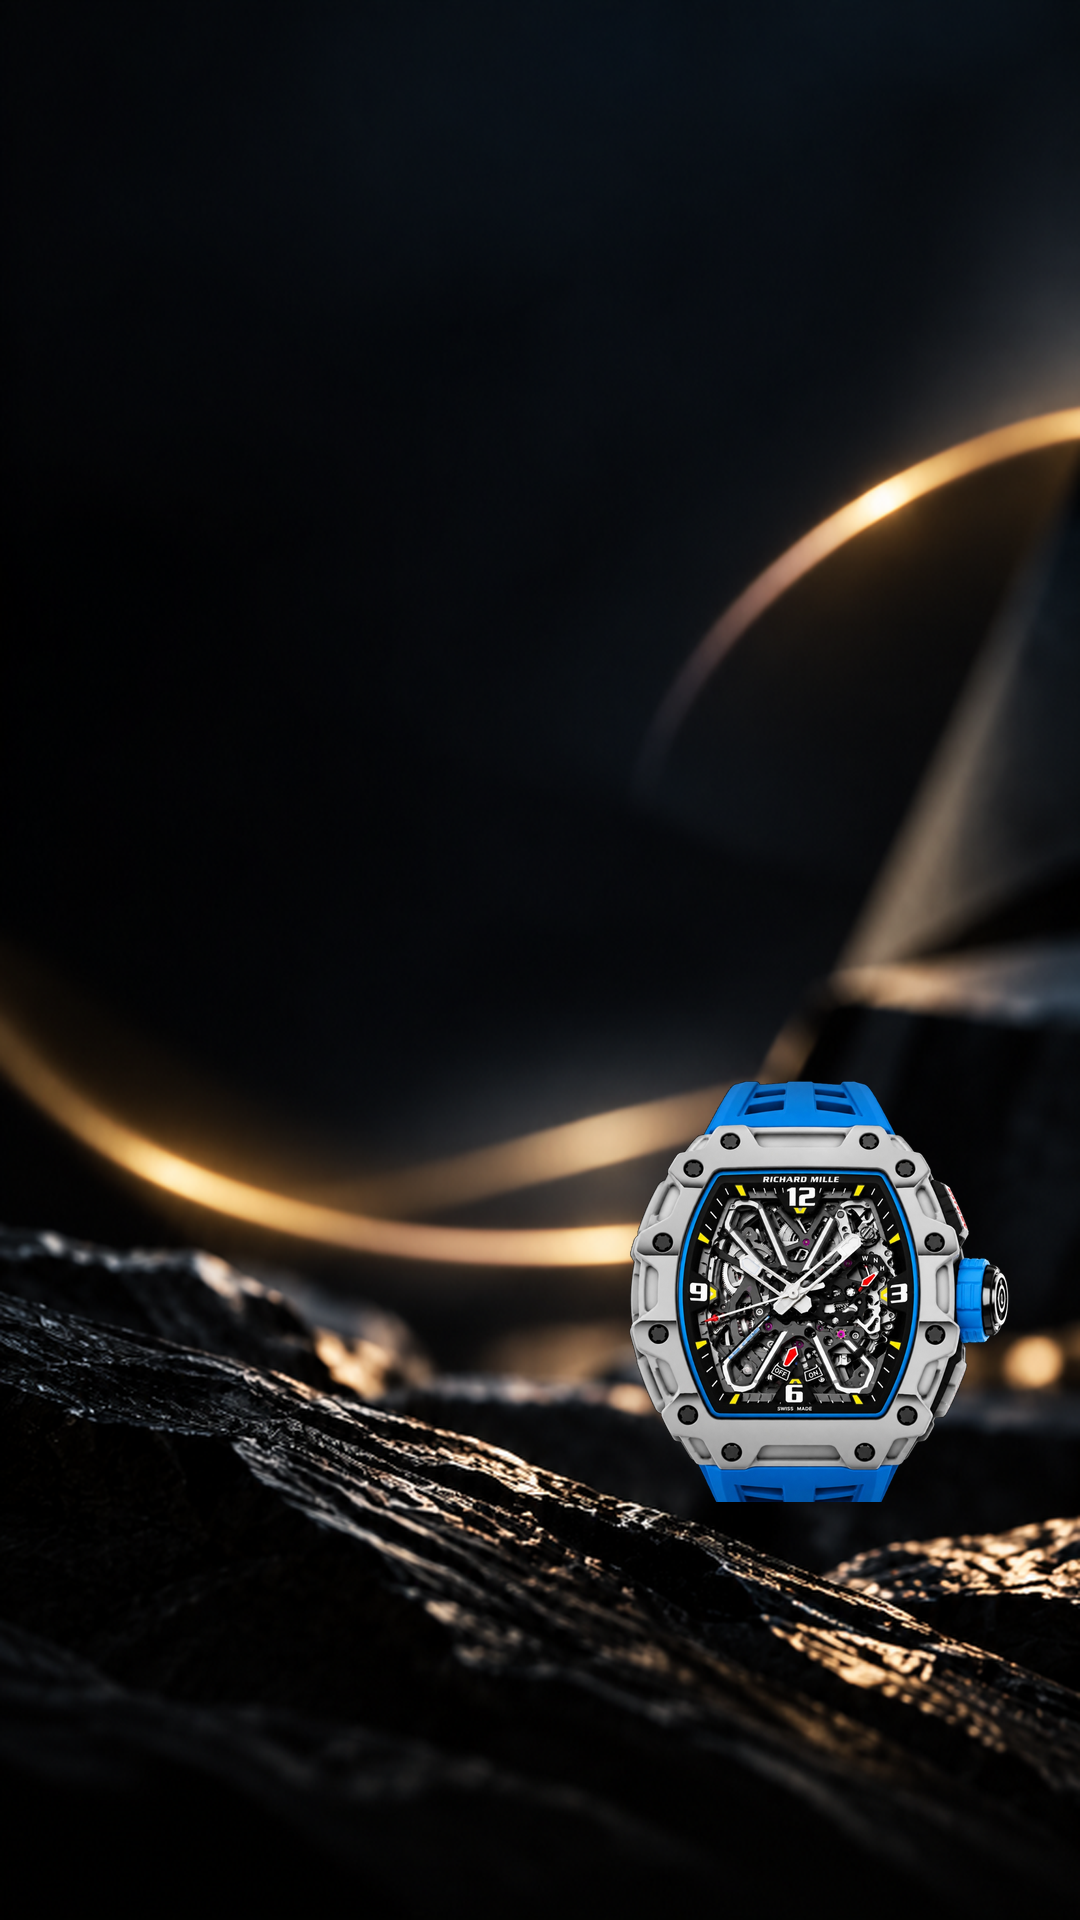
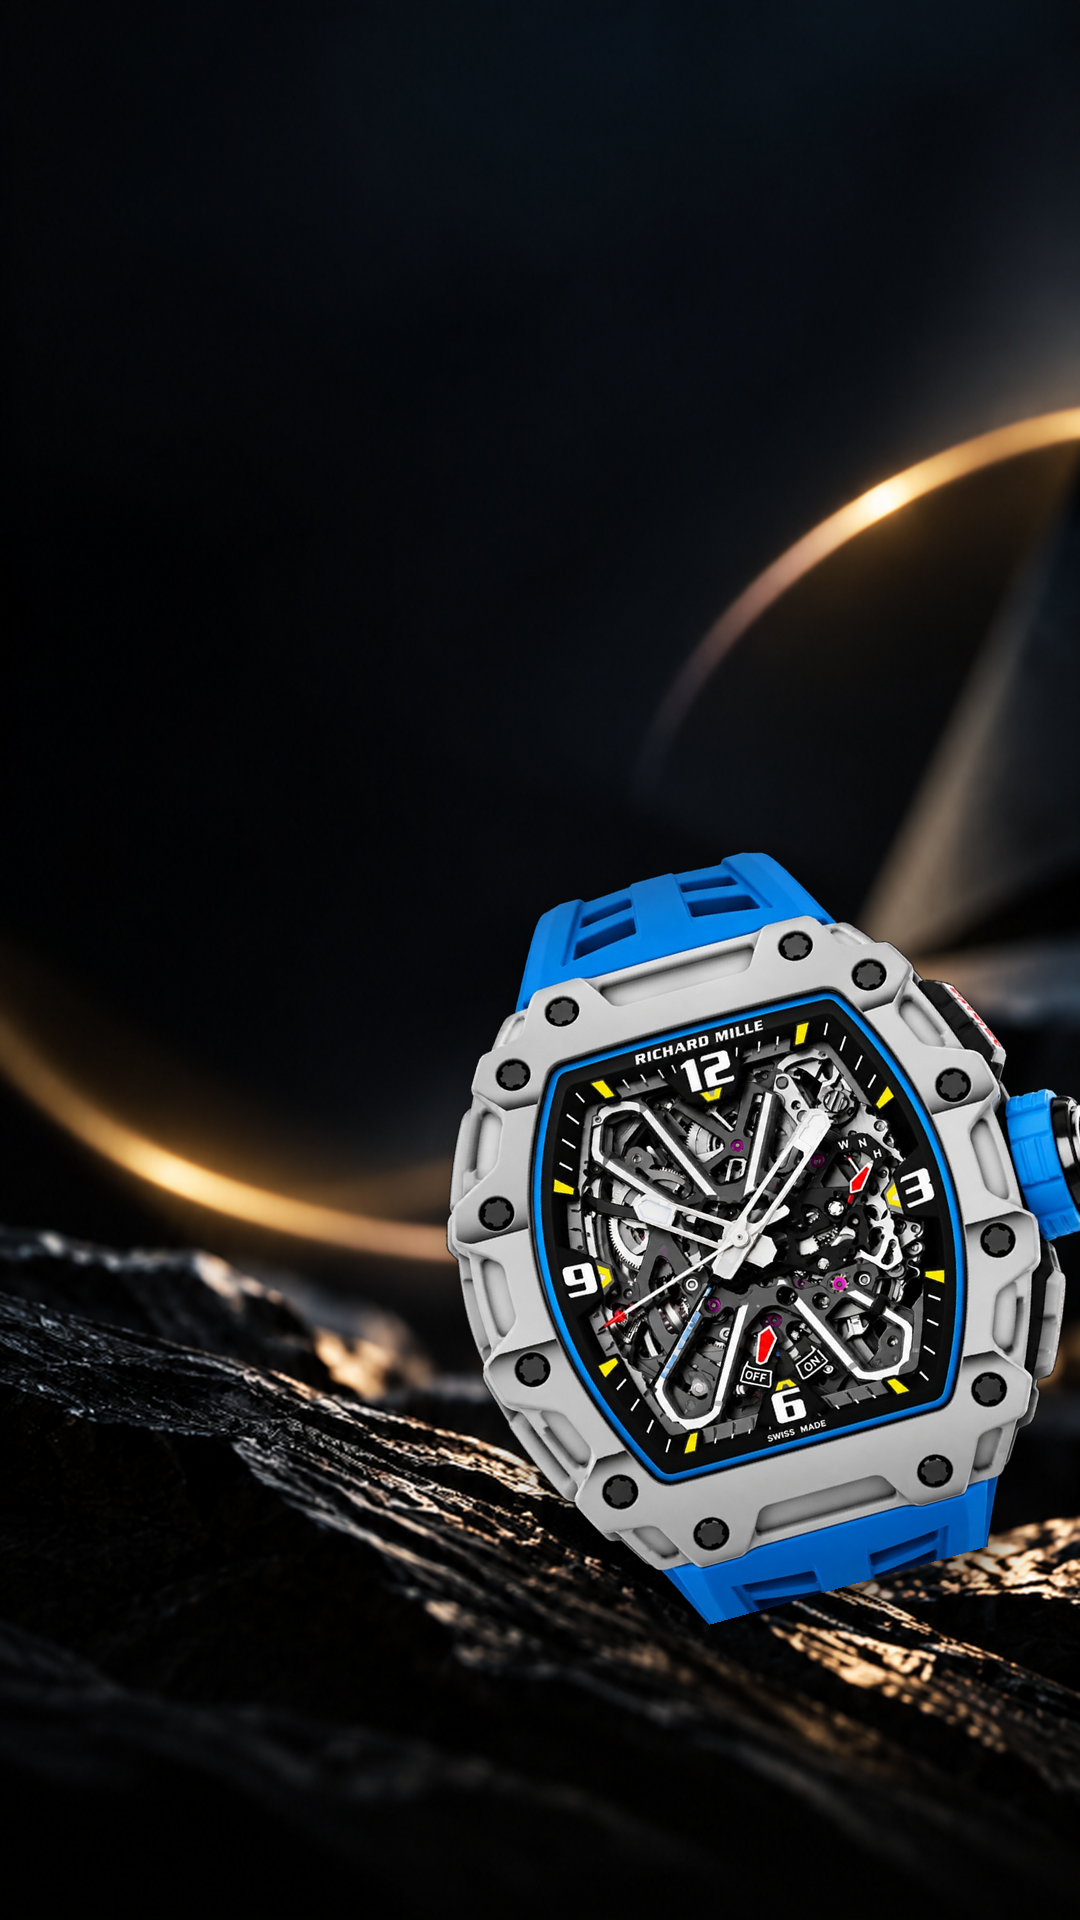
feat(hero): enlarge watch photo on mobile and reduce Swiss Precision headline size for balanced luxury framing

Changed region(s): [[0.3972, 0.4375, 1.0, 0.8438]]

diff --git a/src/sections/Hero.tsx b/src/sections/Hero.tsx
@@ -30,6 +30,7 @@ interface HeroProps {
 const DEFAULT_DESKTOP_IMAGE = '/hero-banner-desktop.webp'
 const DEFAULT_DESKTOP_RTL_IMAGE = '/hero-banner-desktop-rtl.webp'
 const DEFAULT_MOBILE_IMAGE = '/hero-banner-mobile.webp'
+const DEFAULT_MOBILE_RTL_IMAGE = '/hero-banner-mobile-rtl.webp'
 
 export default function Hero({
   heroTitle = 'SWISS | PRECISION',
@@ -80,7 +81,7 @@ export default function Hero({
 
   const mobileBannerSrc = isCustomImage
     ? heroWatchImageUrl
-    : DEFAULT_MOBILE_IMAGE
+    : (isRtl ? DEFAULT_MOBILE_RTL_IMAGE : DEFAULT_MOBILE_IMAGE)
 
   const heroData = {
     title: translate(heroTitle, currentLang),
@@ -241,7 +242,7 @@ export default function Hero({
           {/* Headline: SWISS in white, PRECISION in metallic luxury gold */}
           <h1
             ref={headingRef}
-            className="font-body text-[clamp(3.1rem,8.5vw,6.75rem)] font-extrabold uppercase leading-[0.88] tracking-[-0.04em] text-white drop-shadow-[0_8px_32px_rgba(0,0,0,0.95)]"
+            className="font-body text-[clamp(2.35rem,6.8vw,6.75rem)] font-extrabold uppercase leading-[0.88] tracking-[-0.04em] text-white drop-shadow-[0_8px_32px_rgba(0,0,0,0.95)]"
           >
             {titleLines.map((line, lineIndex) => (
               <span key={line} className="block overflow-hidden pb-1 sm:pb-2">
@@ -261,7 +262,7 @@ export default function Hero({
           {/* Subtitle */}
           <p
             ref={subheadRef}
-            className="mt-3 sm:mt-4 max-w-[260px] sm:max-w-xl font-body text-xs sm:text-sm font-semibold uppercase tracking-[0.14em] sm:tracking-[0.26em] text-[#e8c264] drop-shadow-[0_2px_12px_rgba(0,0,0,0.95)] leading-snug sm:leading-normal"
+            className="mt-2.5 sm:mt-4 max-w-[250px] sm:max-w-xl font-body text-[11px] sm:text-sm font-semibold uppercase tracking-[0.14em] sm:tracking-[0.26em] text-[#e8c264] drop-shadow-[0_2px_12px_rgba(0,0,0,0.95)] leading-snug sm:leading-normal"
           >
             {heroData.subtitleDesc}
           </p>
@@ -275,16 +276,16 @@ export default function Hero({
           </p>
 
           {/* CTA Button: Gold Pill Button with Dark Circle Arrow Icon */}
-          <div className="mt-5 sm:mt-7 flex items-center">
+          <div className="mt-4 sm:mt-7 flex items-center">
             <a
               ref={ctaRef}
               href={collectionTarget}
               onClick={handleCtaClick}
-              className="relative z-20 group inline-flex items-center gap-3.5 sm:gap-4 rounded-full bg-gradient-to-r from-[#e5b955] via-[#f3d27d] to-[#dca738] px-6 py-3 sm:px-7 sm:py-4 font-body text-xs sm:text-[13px] font-bold uppercase tracking-[0.18em] sm:tracking-[0.22em] text-[#140f07] shadow-[0_0_35px_rgba(232,194,100,0.45)] hover:shadow-[0_0_55px_rgba(232,194,100,0.7)] transition-all duration-300 hover:scale-[1.02] cursor-pointer"
+              className="relative z-20 group inline-flex items-center gap-3 sm:gap-4 rounded-full bg-gradient-to-r from-[#e5b955] via-[#f3d27d] to-[#dca738] px-5 py-2.5 sm:px-7 sm:py-4 font-body text-[11px] sm:text-[13px] font-bold uppercase tracking-[0.16em] sm:tracking-[0.22em] text-[#140f07] shadow-[0_0_35px_rgba(232,194,100,0.45)] hover:shadow-[0_0_55px_rgba(232,194,100,0.7)] transition-all duration-300 hover:scale-[1.02] cursor-pointer"
             >
               <span>{heroData.ctaLabel}</span>
-              <span className="flex items-center justify-center w-7 h-7 rounded-full bg-[#1b140b] text-[#e8c264] transition-transform duration-300 group-hover:translate-x-1">
-                <ArrowRight size={14} className={isRtl ? 'rotate-180' : ''} />
+              <span className="flex items-center justify-center w-6 h-6 sm:w-7 sm:h-7 rounded-full bg-[#1b140b] text-[#e8c264] transition-transform duration-300 group-hover:translate-x-1">
+                <ArrowRight size={13} className={isRtl ? 'rotate-180' : ''} />
               </span>
             </a>
           </div>
